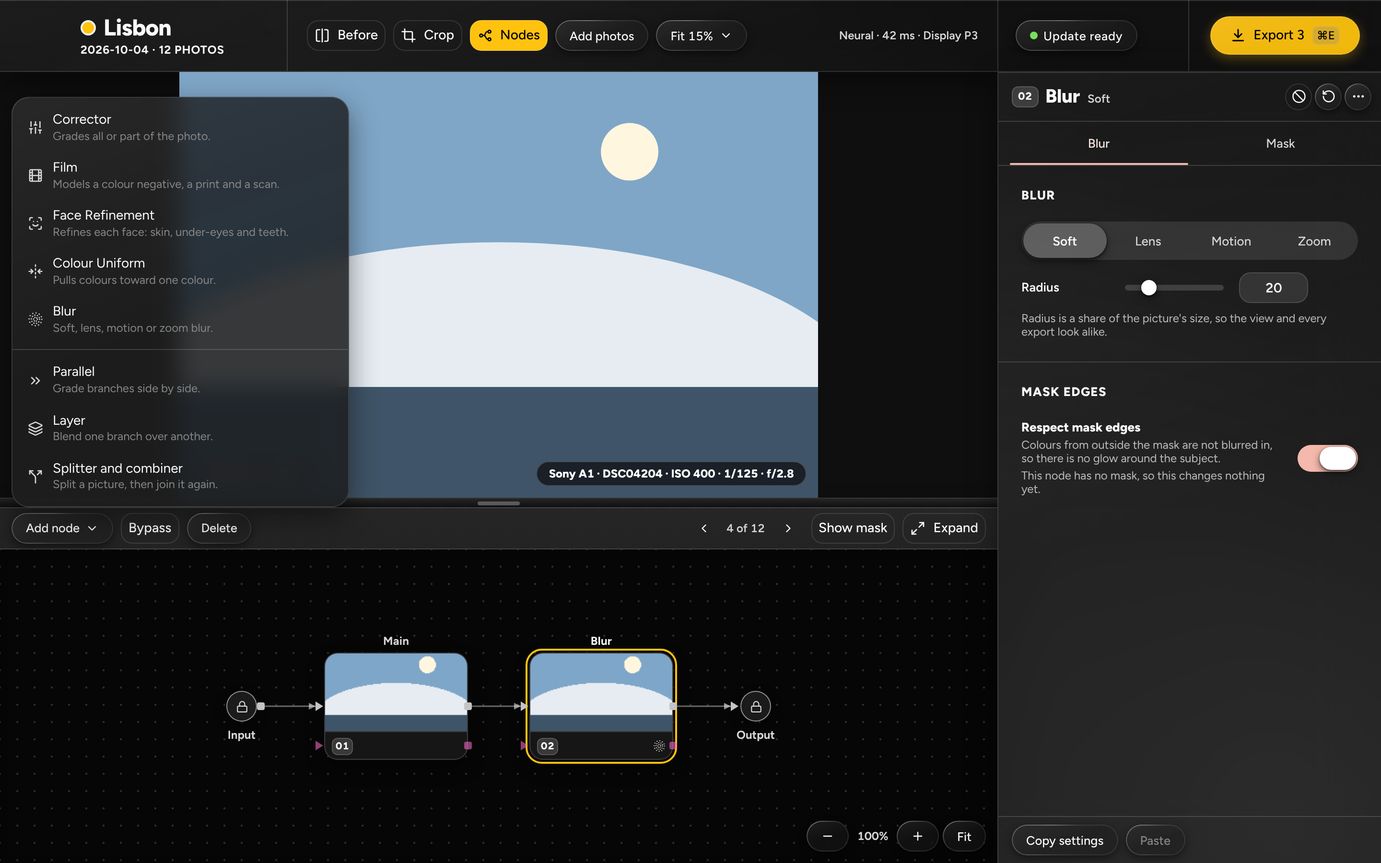
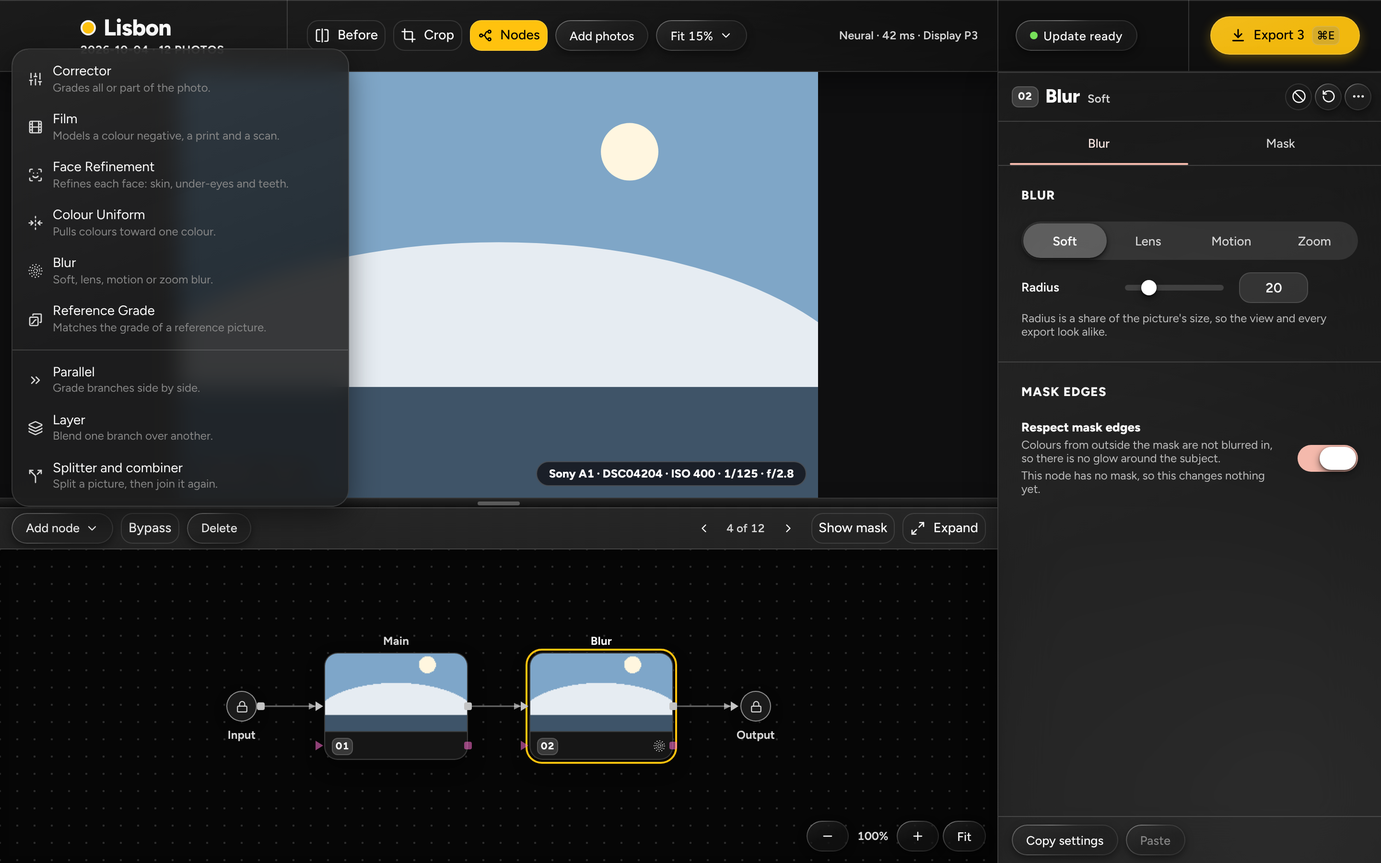
RG-12: the Reference Grade pictures, approved by the owner
The 11 pictures design/screenshots-c2/photos-reference-grade-*.png and the spec that
makes them (e2e/reference-grade-shots.spec.ts), and the four Add node pictures taken
again with the new row (nodes, mixers, blur, uniform). The owner looked at them on
2026-11-26 and approved them. Docs: STATUS (the waiting item closed, the review fixes,
the element eye as RG-12b), docs/15 and docs/34 section 19.

Claude-Session: https://claude.ai/code/session_015yVsquBXWFc8zJt2CLktQS

diff --git a/e2e/reference-grade-shots.spec.ts b/e2e/reference-grade-shots.spec.ts
@@ -1,0 +1,68 @@
+import { expect, test } from "@playwright/test";
+import { compareScreen } from "./helpers/compare";
+import { referenceView } from "./helpers/states";
+
+// The reference pictures of the Reference Grade node (`design/screenshots-c2/photos-reference-grade-*.png`, RG-12), the states of
+// `design/reference-grade/`: the Reference tab with no reference, with a file chosen, fitting, fitted, after the look changed, after a hand edit and
+// with an error, the strip as a chooser, the Hue tab, the Elements tab and the Add node menu with Reference Grade. The owner looks at the pictures
+// before they are committed (docs/15, RG-12); until then the pictures and this file are not in the repository.
+
+test.describe("Reference Grade", () => {
+  test("no reference (photos-reference-grade-empty.png)", async ({ page }) => {
+    await referenceView(page);
+    await compareScreen(page, "photos-reference-grade-empty");
+  });
+
+  test("a file chosen (photos-reference-grade-chosen.png)", async ({ page }) => {
+    await referenceView(page, { state: "chosen" });
+    await compareScreen(page, "photos-reference-grade-chosen");
+  });
+
+  test("fitting (photos-reference-grade-fitting.png)", async ({ page }) => {
+    await referenceView(page, { state: "fitting" });
+    await compareScreen(page, "photos-reference-grade-fitting");
+  });
+
+  test("fitted (photos-reference-grade-fitted.png)", async ({ page }) => {
+    await referenceView(page, { state: "fitted" });
+    await compareScreen(page, "photos-reference-grade-fitted");
+  });
+
+  test("the look changed since the fit (photos-reference-grade-look-changed.png)", async ({ page }) => {
+    await referenceView(page, { state: "look-changed" });
+    await compareScreen(page, "photos-reference-grade-look-changed");
+  });
+
+  test("edited by hand since the fit (photos-reference-grade-edited.png)", async ({ page }) => {
+    await referenceView(page, { state: "edited" });
+    await compareScreen(page, "photos-reference-grade-edited");
+  });
+
+  test("an error (photos-reference-grade-error.png)", async ({ page }) => {
+    await referenceView(page, { state: "error" });
+    await compareScreen(page, "photos-reference-grade-error");
+  });
+
+  test("the strip as a chooser (photos-reference-grade-chooser.png)", async ({ page }) => {
+    await referenceView(page, { state: "chooser" });
+    await compareScreen(page, "photos-reference-grade-chooser");
+  });
+
+  test("the Hue tab (photos-reference-grade-hue.png)", async ({ page }) => {
+    await referenceView(page, { state: "fitted", tab: "Hue" });
+    await compareScreen(page, "photos-reference-grade-hue");
+  });
+
+  test("the Elements tab (photos-reference-grade-elements.png)", async ({ page }) => {
+    await referenceView(page, { state: "fitted", tab: "Elements" });
+    await compareScreen(page, "photos-reference-grade-elements");
+  });
+
+  test("the Add node menu with Reference Grade (photos-reference-grade-add-node.png)", async ({ page }) => {
+    await referenceView(page);
+    await page.getByRole("button", { name: "Add node" }).click();
+    await expect(page.getByRole("menu", { name: "Add node" }).getByRole("menuitem", { name: /^Reference Grade/ })).toBeVisible();
+    await page.waitForTimeout(500);
+    await compareScreen(page, "photos-reference-grade-add-node");
+  });
+});

diff --git a/docs/STATUS.md b/docs/STATUS.md
@@ -22,7 +22,7 @@ The current state of Yellowmoon: release, milestone, what is built, gate results
 - **Reference Grade RG-06 built: the fit (branch `rg-06-fit`, 2026-11-25; from `rg-05-references` be05a27c; not pushed).** `ym_color::refgrade` ports round 15 (the v14 objective with P2 to P5 on, and the two-start search) under the house rules: the `.ywn` network (`data/refgrade/network.ywn` unchanged, hash pinned, 432 neurons), the measures `X.*`, every look term and wall, the seeded 8192-pixel sample, golden section in stages, the need test, the look-only start, ties to neutral. The chain gained `state_before_node`, `codes_from_node` and `replace_node` (the part before the node runs once; bit-equal to the whole chain, tested); the scene gained a class plane. `Core::reference_choose_file`, `reference_choose_photo`, `reference_fit` (progress events, Cancel, one patch with its undo, identity and "already close", failures write nothing); the reference is held per node for the session and never saved. **Gates:** network (22 recorded checks to 1e-9, every refusal), objective cases, fit properties (identity photo, no worse than neutral, ranges, monotone knots, **1, 3 and 4 threads and two runs the same bits**, Cancel changes nothing) pass. **Synthetic recovery:** mean CIELAB distance to the graded picture 13.20 as is, 11.61 fitted (bound 92 %, measured 88 %); objective 123.3 to 25.7. **Time (Linux, 4 cores, a Linux figure, no Mac):** a fit is 27.7 s on 1 thread and 13.8 s on 4 (2,307 candidates, the POC's about 30 s); one candidate's render 8.3 ms on 1 thread, 2.5 ms on 4; the measures (3.7 ms) are single-threaded: RG-11. **Ran:** `cargo fmt`, `cargo clippy -p ym-color -p ym-core -p ym-ml --all-targets -- -D warnings`, `cargo test -p ym-color`, `-p ym-ml --lib scene --test scene`, `-p ym-core --lib` and the `reference_fit`, `element_masks`, `reference_snapshot`, `reference_settings`, `reference_loading`, `any_graph`, `render_nodes` tests (see the report). **Not run:** `cargo deny check`, `cargo test --workspace`, `npm` (no wire type changed), a Mac, the POC's evaluation set (RG-10). Decisions `docs/34` §15 items 54 to 64.
 - **Reference Grade RG-08: the node on the device, `diag-alf` clean on variant H2 (branch `rg-08-fix`, 2026-11-26; from `rg-09-ym` 2ace6c41; not merged).** Hue tables and element blocks after the curve tables of binding 2, flags `N_HUE` and `N_ELEM`, row `R_HUE`, the element planes made on the device by the raster pass; the hue and element steps are the **last block of `node_apply`** (`rg_tail`, variant H2 of `docs/34` §7.2; one added argument, `rpix`). **`diag-alf` gate:** run 45801153156 (RG-08 commit f84e41f9, variant H1, an early return into `rg_apply`) **failed**: `gpu_uniform` 3/3 on AMD EPYC 9V74 and 9V45 (F16Native, "pull and grade", C10 3.38e-1), every other cell 0/3; main 0/3 everywhere. Run **45818984974 (commit 9e3d1f22, variant H2) is clean: every cell 0/3 on all 8 jobs**, on AMD EPYC 9V74 (1 job), AMD EPYC 9V45 (2), AMD EPYC 7763 (2), Intel Xeon 6975P-C (2) and Intel Xeon Platinum 8573C (1); `main: gpu_reference_grade nobuild` as expected. Not reproduced locally (Intel Sapphire Rapids, Mesa 25.2, LLVM 20; `LP_NATIVE_VECTOR_WIDTH` 128 and 512 and a `getHostCPUName` override to `znver4`, `znver5`, `skylake-avx512` all pass H1 too). **Local, H2:** `ym-gpu` release suite on lavapipe all passed (78 test binaries, `gpu_uniform` in F32, F16Packed and F16Native, `gpu_reference_grade` 12 passed); `gpu_nodes_dump` writes 1,530 lines **byte-identical to main's (87bf9afe)**; the parity numbers of the first build are unchanged by the fix (the same arithmetic). Details: `docs/34` §7.2 and §19, `docs/17` §11a. The Mac GPU CI is not run.
[1 lines of base64/hex data omitted]
-- **Reference Grade RG-12 built: the panel (branch `rg-12-panel`, 2026-11-26; from `rg-08-fix` 6e8f9d2f with `rg-07-mockups` merged; not pushed).** Add node › Reference Grade (after Blur, after the selected node, the 64-node limit, Reset, Delete, Reorder), the seven tabs (Reference, Light, Colour, Curve, Hue, Elements, Mask; ⌘1 to ⌘7; 12 px, none clipped at 1440 × 900, 1180 × 760 and 1800 × 1100), the Reference tab with no card title (the owner's answer 4) and **every string of `docs/34` §9.3 pinned by a test**, the status-line state machine (look changed first, then edited by hand, then the fit's result), Fit with progress and Cancel (and Esc), Strength, Skin protection, the strip as a chooser in the graph's place (the owner's answer 1), the Hue tab on a periodic plot that opens zoomed on the fitted values with the full range one press away (answer 2), the Elements tab (seven cards, the shares of the last fit, "Not found in this photo.", "Looking at the photo…"), the shell's five commands and `fit_progress`, the mock's fixed fit; the decisions are `docs/34` §9.6, what was built §19. **The element eye of RG-07 is not built** (the core has no element mask view; §9.6). **Gates (Linux, the mock):** Vitest `npm test` 3,401 passed in the full run, 3 existing tests that listed the old menu, the old first tab and a pointing hand were updated and pass (the 70 files that touch the panel: 1,219 passed after the last change); `npm run build` passes; Playwright `npm run e2e -- --trace off`: **1,195 passed, 4 failed**, the four being the existing pictures of the Add node menu, which now has a row more (`photos-nodes-add-node`, `photos-mixers-add-node`, `photos-blur-add-node`, `photos-uniform-add-node`; their new versions are not committed and wait with the others for the owner), and every other spec passes, among them the glass audit, axe, the contrast measurement and the focus-order goldens on the five new states (`98` to `102`), and the new `e2e/reference-grade.spec.ts` (25 tests); `cargo fmt --check` and `cargo clippy -p yellowmoon-app -p ym-core --all-targets -- -D warnings` pass; the shell's bindings tests (7) and the four new API tests pass (the fit test runs the real fit on the fake scene model in about 24 s). **The screenshots `design/screenshots-c2/photos-reference-grade-*.png` (11) and `e2e/reference-grade-shots.spec.ts` are made and left uncommitted for the owner's look.** No fit was run in a window: the mock's fit is a fixed one.
+- **Reference Grade RG-12 built: the panel (branch `rg-12-panel`, 2026-11-26; from `rg-08-fix` 6e8f9d2f with `rg-07-mockups` merged; not pushed).** Add node › Reference Grade (after Blur, after the selected node, the 64-node limit, Reset, Delete, Reorder), the seven tabs (Reference, Light, Colour, Curve, Hue, Elements, Mask; ⌘1 to ⌘7; 12 px, none clipped at 1440 × 900, 1180 × 760 and 1800 × 1100), the Reference tab with no card title (the owner's answer 4) and **every string of `docs/34` §9.3 pinned by a test**, the status-line state machine (look changed first, then edited by hand, then the fit's result), Fit with progress and Cancel (and Esc), Strength, Skin protection, the strip as a chooser in the graph's place (the owner's answer 1), the Hue tab on a periodic plot that opens zoomed on the fitted values with the full range one press away (answer 2), the Elements tab (seven cards, the shares of the last fit, "Not found in this photo.", "Looking at the photo…"), the shell's five commands and `fit_progress`, the mock's fixed fit; the decisions are `docs/34` §9.6, what was built §19. **The element eye of RG-07 is not built** (the core has no element mask view; §9.6). **Gates (Linux, the mock):** Vitest `npm test` 3,401 passed in the full run, 3 existing tests that listed the old menu, the old first tab and a pointing hand were updated and pass (the 70 files that touch the panel: 1,219 passed after the last change); `npm run build` passes; Playwright `npm run e2e -- --trace off`: **1,195 passed, 4 failed**, the four being the existing pictures of the Add node menu, which now has a row more (`photos-nodes-add-node`, `photos-mixers-add-node`, `photos-blur-add-node`, `photos-uniform-add-node`; taken again and committed with the others), and every other spec passes, among them the glass audit, axe, the contrast measurement and the focus-order goldens on the five new states (`98` to `102`), and the new `e2e/reference-grade.spec.ts` (25 tests); `cargo fmt --check` and `cargo clippy -p yellowmoon-app -p ym-core --all-targets -- -D warnings` pass; the shell's bindings tests (7) and the four new API tests pass (the fit test runs the real fit on the fake scene model in about 24 s). **The screenshots `design/screenshots-c2/photos-reference-grade-*.png` (11), the four Add node pictures taken again and `e2e/reference-grade-shots.spec.ts` were approved by the owner on 2026-11-26 ("Approved") and are committed.** After review: a fit's undo step holds only what the fit wrote (an edit made during a fit keeps its own step), the fit's look is the one it started under, and a fit's cancel entry is its own (`FitRegistry`). The element eye of RG-07 follows as RG-12b, after RG-11 (the core needs a view of one element's soft mask). No fit was run in a window: the mock's fit is a fixed one.
 - **Reference Grade RG-10 built and run on dev (branch `rg-10-eval`, 2026-11-26; from `rg-fixes-1` 8a50e882; not pushed): first run withdrawn, second run: all three lines pass; RG-10 is DONE by the owner's decisions of 2026-11-26. RG-H2 is done (2026-11-26): the owner approved the RG-07 mock-ups (`design/reference-grade/`, branch `rg-07-mockups`) with four answers: the filmstrip takes the graph's place in chooser mode; the Hue plots open on a zoomed default view that fits the fitted values; Add node puts Reference Grade after Blur; the Reference tab's card title is dropped (`docs/34` §2.1, §9.4, §17). RG-12 builds to them.** The owner decided (1) that line 1 is judged like each single harm, a rise of at most 1 point (8.2 % to 8.4 % passes), and (2) that "equal to the POC's labels on 99 %" is replaced by the product's segmenter against the original model on the same picture (RG-03: 99.97 % to 100 %, gate 99.9 %); the 92.10 % below is a record, not a gate. `tools/eval/refgrade` (`refgrade-eval run | merge | compare | sample | renders | diagnose | stages`, `docs/34` §10.1): harms H1 to H6 and transfers T1 to T3 ported from the POC's harness, run on **the product's fit** through the core and measured on every pixel of the analysis picture. **The first dev run (T3 −0.033, gate not met) was made with a tool whose graph left the Output at the Neutral look and is withdrawn** (`docs/34` §16.10.1). **Second dev run (mended tool, 56 photos, 728 fits, 4 shards x 1 thread, 1 h 54 min, no failure) against round 15:** any harm 8.2 % (60 fits) to 8.4 % (61 fits), **fails "does not rise" by one fit and passes the owner's 1-point rule**; every harm within +0.1 points (pass); **T1 +0.007, T2 −0.006, T3 −0.003** on round 15's harm-free fits (limit −0.010: pass). All fits T1 0.228 to 0.234, T2 0.121 to 0.115, T3 0.236 to 0.233. Within 0.02 of round 15's: T1 40.7 %, T2 34.7 %, T3 31.5 %. Harm flags the same on 697 of 728 fits. **Element masks against the POC's labels: 92.10 % equal (20 of 56 photos at 99 %), a record, no longer a gate** (unchanged: the Input's picture against the POC's labels of the default render). Fit time 35.4 s on one thread (four at once). Held-out set not run. Outputs (never committed): `refgrade-poc-out/eval-product/dev-mended/`.
 - **0.2.4 prepared (release-0.2.4, this commit; not pushed).** 0.2.4 approved for release by the owner on 2026-11-22 ("Approved, release 0.2.4"). The stable release after six betas; the `[0.2.4]` section of `CHANGELOG.md` is one summary since 0.2.3 for people who never saw them, and the six beta sections stay below it. Pipeline 0.16.0, no pixel changes from beta 6. The CI warning of `ym-apple`'s build script now says that a build without the macOS 27 SDK is expected to lack the Apple Auto bridge (`docs/19` §11). Still with the owner and the lead, none ticked here: CI and the Mac GPU run on the release commit, and the Mac-only checks listed under "Waiting on the owner" (M0-H4, M4-02 MC-1 to MC-11, M4-04 A-MC-1 to A-MC-11, CU-H3, P-H4, the Blur and Colour Uniform speed checks) and the real-photo looks (S-H2, CU-H2, BL-H2, P-H2); `docs/12` and `release.yml` make none of them a gate of the release (the Intel smoke test is not one either).
 - **0.2.4-beta.6 prepared (release-0.2.4-beta.6, this commit):** Colour Uniform Light/Colour/Curve tabs, the Masks header eye and icon Invert; pipeline 0.16.0. Not pushed.
@@ -443,7 +443,6 @@ The owner cleared this list on 2026-11-07 ("remove waiting in STATUS"), after 0.
 - **M0-H4 · The speed check for the mixers, on a Mac.** A slider move in the fit view with 8 nodes, two of them mixers, against the node view's target of 100 ms (`docs/25` §7, *starting*). (The device parity cases of `docs/25` §7 passed on Metal in the Mac GPU CI, runs 42854665471 and 42884675357.)
 - **RG-03 · Publish the EoMT weights**: done 2026-11-25 (`models-eomt-small-1`; CI and the builds fetch it, `docs/34` §19). Nothing left for the owner here.
 - **RG-H3 · Time a Reference Grade fit on a Mac and try the build** (`docs/15` milestone RG, M0-H4). Due now that RG-12 is built. The fit's time on a Mac with all cores (several seconds is accepted; say if it is too long), the scene's time, the node's cost per megapixel on Metal, the file dialog and the strip chooser in WKWebView, and a first try on your own photographs. **Mac-only checks of RG-12 (M0-H4):** the system open panel of Choose reference › Image file… and the strip chooser (focus, Esc, the tooltips) in WKWebView; a fit with the real scene model in the window, Cancel and Esc during it; the Hue plots by pointer and keyboard.
-- **RG-12 · Look at the Reference Grade pictures before they are committed** (`docs/15` RG-12). The 11 pictures `design/screenshots-c2/photos-reference-grade-*.png` and `e2e/reference-grade-shots.spec.ts` are in the working tree of `rg-12-panel`, uncommitted; the four existing pictures of the Add node menu (`photos-nodes-add-node`, `photos-mixers-add-node`, `photos-blur-add-node`, `photos-uniform-add-node`) differ by the new row and are to be taken again with them. Also: the element eye is not built (`docs/34` §9.6); say if it should be.
 - **RG-H4 · The Reference Grade blind A/B** (`docs/15` milestone RG, `tools/eval/ab`). Not yet due: after RG-13. On references you pick and keep local, against no change and against the Reinhard map; your own photos are a held-out check only.
 
 ## Questions for the owner

diff --git a/docs/15-milestones.md b/docs/15-milestones.md
@@ -547,7 +547,7 @@ Tasks (details below; the *Done when* of each is the gate of `docs/34` §10 that
 
 **RG-11 · Speed** (RG-10). The fit's time, with the order of remedies of `docs/34` §5.7: the candidates across all cores (the two independent searches in parallel, the pixels of a candidate across chunks), cheaper chain steps for the candidate, the scene cached per photo and per reference, and only then fewer evaluations. The same bits on 1 and N threads, and the quality gate of RG-10 re-run after each change. *Done when:* the fit's time on the Linux machine and its scene time are in `docs/STATUS.md`, no result bit changed, and the gate of RG-10 still passes. (The owner times it on a Mac in RG-H3.)
 
-**RG-12 · The panel** (RG-H2, RG-09). The wire types in use; `graphOps` (Add node › Reference Grade after the selected node, Delete, Reorder, the 64-node limit, Reset), `AddNodeMenu.tsx`; `NODE_TABS.reference_grade` (**Reference, Light, Colour, Curve, Hue, Elements, Mask**; ⌘1 to ⌘7), the Reference tab (the thumbnail, Choose reference…, **Fit with progress and Cancel**, Strength, Skin protection, the status line and notes, every string of §9.3), the Hue tab (two cards on the Curve plot with a periodic axis), the Elements tab (seven cards), `resolvedGraded` for the kind, the strip chooser mode, `fixtures/graph.ts` and `api.mock.ts` (a fixed fit); `src-tauri` commands and the mock's contract test; the Mac-only checks (the file dialog and the strip chooser in WKWebView) listed under *Waiting on the owner* (M0-H4). *Done when:* the interface gate of `docs/34` §10 passes (unit, Playwright, no tab clipped at three sizes, glass audit and a11y), the screenshots exist and **the owner has looked at them before they are committed**. **RG-12: built 2026-11-26 (branch `rg-12-panel`); the gate's unit, Playwright, three-size, glass, axe, contrast and focus-order checks pass on the mock (`docs/STATUS.md` has the numbers, `docs/34` §9.6 the decisions and §19 what was built); the screenshots are made and wait, uncommitted, for the owner's look; the element eye of RG-07 is not built (the core has no element mask view).**
+**RG-12 · The panel** (RG-H2, RG-09). The wire types in use; `graphOps` (Add node › Reference Grade after the selected node, Delete, Reorder, the 64-node limit, Reset), `AddNodeMenu.tsx`; `NODE_TABS.reference_grade` (**Reference, Light, Colour, Curve, Hue, Elements, Mask**; ⌘1 to ⌘7), the Reference tab (the thumbnail, Choose reference…, **Fit with progress and Cancel**, Strength, Skin protection, the status line and notes, every string of §9.3), the Hue tab (two cards on the Curve plot with a periodic axis), the Elements tab (seven cards), `resolvedGraded` for the kind, the strip chooser mode, `fixtures/graph.ts` and `api.mock.ts` (a fixed fit); `src-tauri` commands and the mock's contract test; the Mac-only checks (the file dialog and the strip chooser in WKWebView) listed under *Waiting on the owner* (M0-H4). *Done when:* the interface gate of `docs/34` §10 passes (unit, Playwright, no tab clipped at three sizes, glass audit and a11y), the screenshots exist and **the owner has looked at them before they are committed**. **RG-12: built 2026-11-26 (branch `rg-12-panel`); the gate's unit, Playwright, three-size, glass, axe, contrast and focus-order checks pass on the mock (`docs/STATUS.md` has the numbers, `docs/34` §9.6 the decisions and §19 what was built); the owner approved the screenshots on 2026-11-26 and they are committed; the element eye of RG-07 is not built (the core has no element mask view) and follows as RG-12b.**
 
 **RG-13 · The quality round on skin and tinted whites** (RG-10). A round of the POC's kind: general principles only, found on dev, judged once on a **fresh held-out set** (the POC's was used three times), under the owner's three acceptance rules (`docs/34` §10.1) against RG-10's baseline. The targets are skin (H2, 7.9 % of held-out fits in round 15) and tinted whites (H4, 7.8 %). *Done when:* the three rules pass on the fresh set, every number is in `docs/STATUS.md`, and a failed round is reported and not hidden. The owner's own photos stay a held-out check only. **Owner's rule, 2026-11-25:** the subject element stays the segmenter's subject (`docs/34` §4b.3); Apple Vision's Subject mask is never used; a SAM 2.1 refinement of the subject's edge (a box prompt from the segmenter's subject) is considered here only if the subject's edges show up as a problem in the round.
 

diff --git a/docs/34-reference-grade.md b/docs/34-reference-grade.md
@@ -1245,5 +1245,5 @@ Task format of `docs/15`, milestone RG. The work goes on its own branch, one rev
 - **Where.** `src/screens/nodes/ReferenceTab.tsx`, `HueTab.tsx`, `ElementsTab.tsx`, `ReferenceGlyph.tsx`, the `reference_grade` branch of `NodeTabs.tsx`; `src/components/HuePlot.tsx` and `hueCurve.ts` (the periodic plot and its maths), `Filmstrip.tsx` (mode `choose`), `TabBar.tsx` (size `small`), `tabs.ts` (`REFERENCE_TABS`, `NODE_TABS.reference_grade`); `src/state/reference.ts` (every string of §9.3 as `REFERENCE_TEXT`, the status-line state machine `referenceStatus`, `fitButton`, `referenceNotes`, `lookKey`, `fittedKey`), the store (`references`, `choosing`, `chooseReferenceFile`, `startChoosingReference`, `chooseReferencePhoto`, `fitReference`, `cancelReferenceFit`, `clearReference`, the direct fold of the node's fields in `applyDirect`), `graphOps.ts` (`insertAfter` with `kind: "reference_grade"`, `resetNode`, `headLine`), `AddNodeMenu.tsx`, `NodeCard.tsx`, `GraphArea.tsx` (the chooser), `Photos.tsx` (the chooser's state, Esc, `hasMasks`, the tab a new node opens on), `PickReferenceHint.tsx`; `src/api.ts`, `types.ts`, `contract.ts`, `bindings.ts` (regenerated), `api.mock.ts` with `src/fixtures/reference.ts` (the stand-in picture, the errors and notes a file name asks for, the fixed fit, the shares); the shell: `src-tauri/src/wire.rs` (`ReferenceInfo`, `ReferenceKind`, `FitStatus`, `ElementShare`, `FitReport`, `FitStep`, `FitProgress`), `api.rs` (`reference_choose_path`, `reference_choose_photo`, `fit_reference`, `cancel_fit`, `clear_reference`, `AppConfig::scene`), `commands.rs` (the five commands), `events.rs` (`fit_progress`); `ym-core`'s `Core::reference_thumbnail` (the picture of a held reference for its card, a box average of the scene picture). The decisions are §9.6.
 - **What a card shows of a reference** is its label, its notes and a PNG of at most 256 px on the `ym-frame` scheme; the reference's pixels, its path and its statistics never cross the bridge and nothing is saved (§3.7). A test holds that the settings never name the file.
 - **Tests.** Vitest: `reference.test.ts` (every string pinned, the state machine), `hueCurve.test.ts`, `graphOps.reference.test.ts`, `api.mock.reference.test.ts`, `ReferencePanel.test.tsx` (the menu, the tabs and ⌘1 to ⌘7, each state of the card, Fit and its progress, Cancel and Esc, undo, Strength, Skin protection, each error, the chooser and its keyboard path, the Hue and Elements tabs, Copy and Paste), `AddNodeMenu.items.test.tsx`, `api.test.ts` (the five commands and `fit_progress` against the generated bindings). Playwright on the mock: `e2e/reference-grade.spec.ts` (the menu, the three window sizes with no tab clipped, choosing, Fit, Cancel and Esc, undo, Strength, Skin protection, each error, the chooser, the Hue and Elements tabs, Reset, Copy and Paste), the five states `98` to `102` in the glass audit, axe, the contrast measurement and the focus-order goldens, and a named-controls test in `a11y.spec.ts`. Rust: four tests in `src-tauri/src/api/tests.rs` (a file held and its picture served; each error sentence; the strip photo and its own refusal; a fit's steps, its one patch and a cancel that changes nothing, with the fake scene) and the bindings tests.
-- **Limits.** The screenshots `design/screenshots-c2/photos-reference-grade-*.png` are made but not committed: the owner looks at them first (RG-H2's rule for this task). **Mac only, not run (RG-H3):** the system open panel and the strip chooser in WKWebView, the Metal frame while a fit runs. The element eye is not built (§9.6). The cards show a share only after a fit. No fit was run through the app's window here: the mock's is a fixed one; the real fit is `Core::reference_fit`, which the shell test above runs.
+- **Limits.** The screenshots `design/screenshots-c2/photos-reference-grade-*.png` were approved by the owner on 2026-11-26 and committed with the four Add node pictures taken again. **Mac only, not run (RG-H3):** the system open panel and the strip chooser in WKWebView, the Metal frame while a fit runs. The element eye is not built (§9.6). The cards show a share only after a fit. No fit was run through the app's window here: the mock's is a fixed one; the real fit is `Core::reference_fit`, which the shell test above runs.
 
